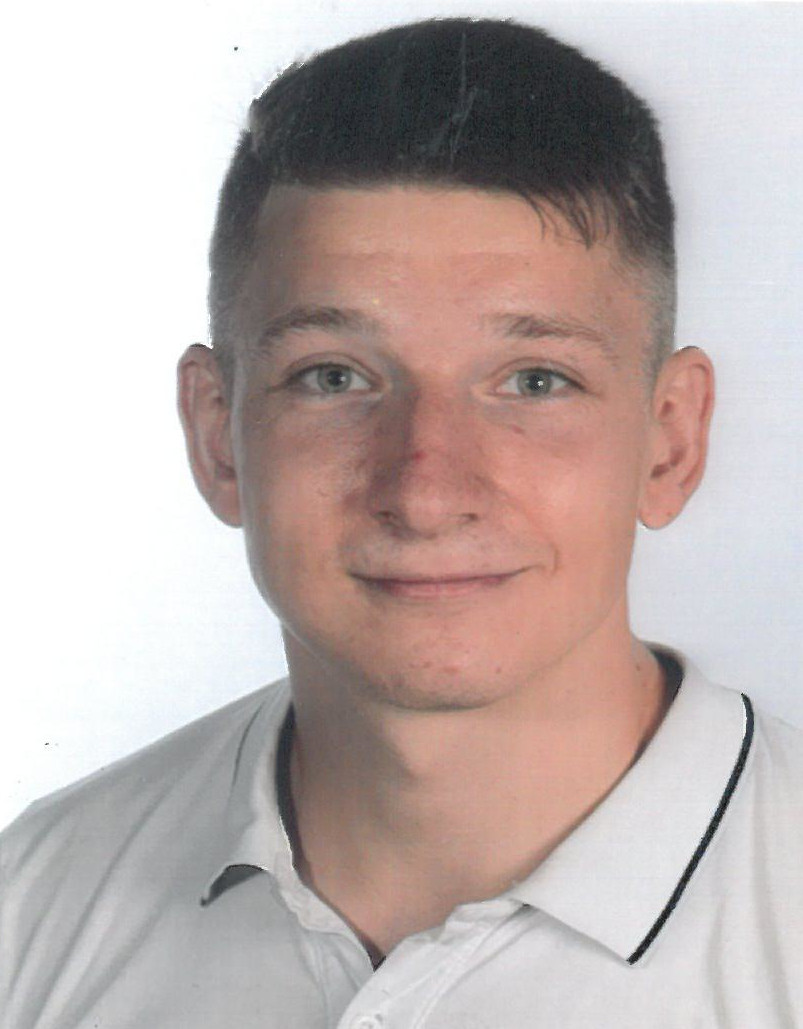
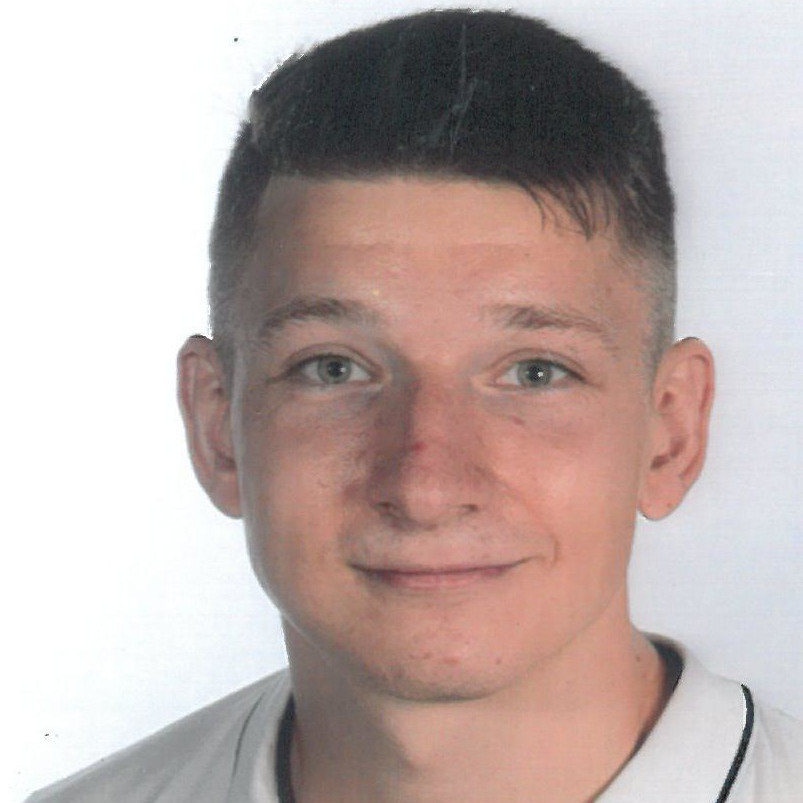
Restructured image files tree (current vs. old); resized and removed background from new images

diff --git a/index.html b/index.html
@@ -252,7 +252,7 @@
         <div class="row  team-member">
             <div class="col s4 face-box">
                 <p>
-                    <img src="img/us/aistis-r.jpg"/>
+                    <img src="img/us/aistis-r-removebg-preview.png"/>
                 </p>
             </div>
             <div class="col s8 member-intro">
@@ -269,7 +269,7 @@
         <div class="row  team-member">
             <div class="col s4 face-box">
                 <p>
-                    <img src="img/us/tadas-s.jpeg"/>
+                    <img src="img/us/tadas-s-removebg-preview.png"/>
                 </p>
             </div>
             <div class="col s8 member-intro">
@@ -289,7 +289,7 @@
         <div class="row  team-member">
             <div class="col s4 face-box">
                 <p>
-                    <img src="img/us/rokas-g.jpeg"/>
+                    <img src="img/us/rokas-g-removebg-preview.png"/>
                 </p>
             </div>
             <div class="col s8 member-intro">
@@ -304,7 +304,7 @@
         <div class="row  team-member">
             <div class="col s4 face-box">
                 <p>
-                    <img src="img/us/lukas-b.jpg"/>
+                    <img src="img/us/lukas-b-removebg-preview.png"/>
                 </p>
             </div>
             <div class="col s8 member-intro">
@@ -320,7 +320,7 @@
         <div class="row  team-member">
             <div class="col s4 face-box">
                 <p>
-                    <img src="img/us/arnas-r.jpg"/>
+                    <img src="img/us/arnas-r-removebg-preview.png"/>
                 </p>
             </div>
             <div class="col s8 member-intro">
@@ -336,7 +336,7 @@
         <div class="row  team-member">
             <div class="col s4 face-box">
                 <p>
-                    <img src="img/us/ausra-s.jpg"/>
+                    <img src="img/us/ausra-s-removebg-preview.png"/>
                 </p>
             </div>
             <div class="col s8 member-intro">
@@ -351,7 +351,7 @@
         <div class="row  team-member">
             <div class="col s4 face-box">
                 <p>
-                    <img src="img/us/gustas-m.jpg"/>
+                    <img src="img/us/gustas-m-removebg-preview.png"/>
                 </p>
             </div>
             <div class="col s8 member-intro">
@@ -362,7 +362,7 @@
         <div class="row  team-member">
             <div class="col s4 face-box">
                 <p>
-                    <img src="img/us/valentinas.jpg"/>
+                    <img src="img/us/valentinas-removebg-preview.png"/>
                 </p>
             </div>
             <div class="col s8 member-intro">
@@ -373,7 +373,7 @@
         <div class="row  team-member">
             <div class="col s4 face-box">
                 <p>
-                    <img src="img/us/jokubas-j.jpg"/>
+                    <img src="img/us/jokubas-j-removebg-preview.png"/>
                 </p>
             </div>
             <div class="col s8 member-intro">
@@ -384,7 +384,7 @@
         <div class="row  team-member">
             <div class="col s4 face-box">
                 <p>
-                    <img src="img/us/jurgis-p.png"/>
+                    <img src="img/us/jurgis-p-removebg-preview.png"/>
                 </p>
             </div>
             <div class="col s8 member-intro">
@@ -395,7 +395,7 @@
         <div class="row  team-member">
             <div class="col s4 face-box">
                 <p>
-                    <img src="img/us/henrikas-s.jpg"/>
+                    <img src="img/us/henrikas-s-removebg-preview.png"/>
                 </p>
             </div>
             <div class="col s8 member-intro">
@@ -406,11 +406,11 @@
         <div class="row  team-member">
             <div class="col s4 face-box">
                 <p>
-                    <img src="img/us/gustas-g.jpg"/>
+                    <img src="img/us/gustas-g-removebg-preview.png"/>
                 </p>
             </div>
             <div class="col s8 member-intro">
-                <h3> Gustas Gedminas, Researcher </h3>
+                <h3> Gustas Gediminas, Researcher </h3>
                 <p> Gustas is a junior software engineer currently studying computer science at Vilnius University. Through the years he has won numerous awards from various physics and mathematics Olympiads and has passed the Lithuanian national mathematics exam with a score of 100. Gustas has an interest in a wide variety of topics: from physics simulations to neural networks to computer graphics and a constant desire to grow. </p>
             </div>
         </div>
